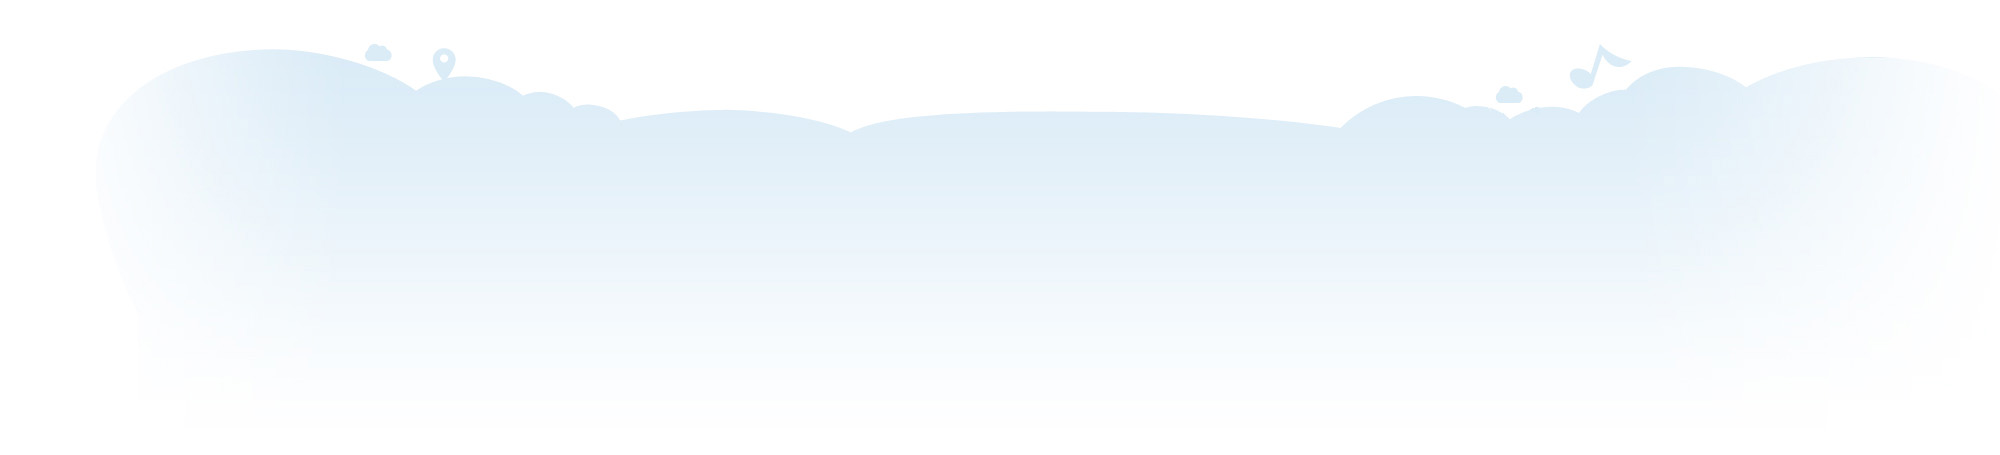
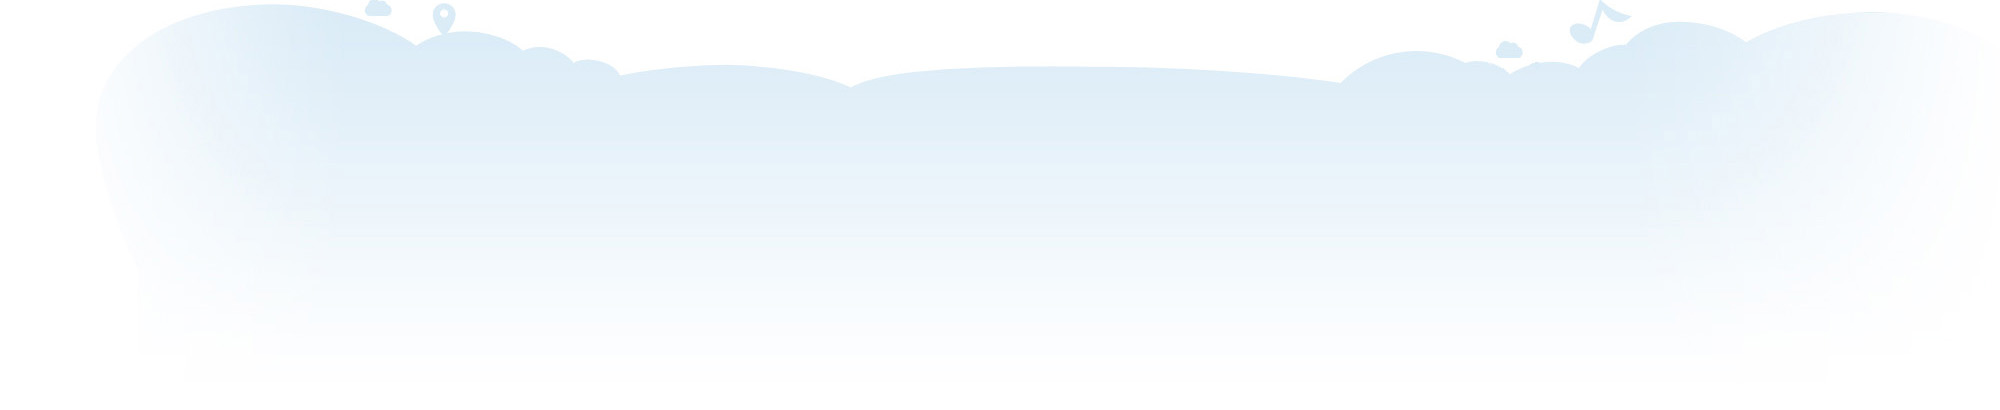
test shell add

Changed region(s): [[0.093, 0.0, 0.899, 0.2927]]

diff --git a/Public/css/stream.css b/Public/css/stream.css
@@ -3,7 +3,7 @@
     background-image: url("../image/common/stream_topbg.jpg");
     background-position: center top;
     background-repeat: no-repeat;
-    padding-top: 80px;
+    padding-top: 35px;
     position: relative;
     top: 0;
 }
